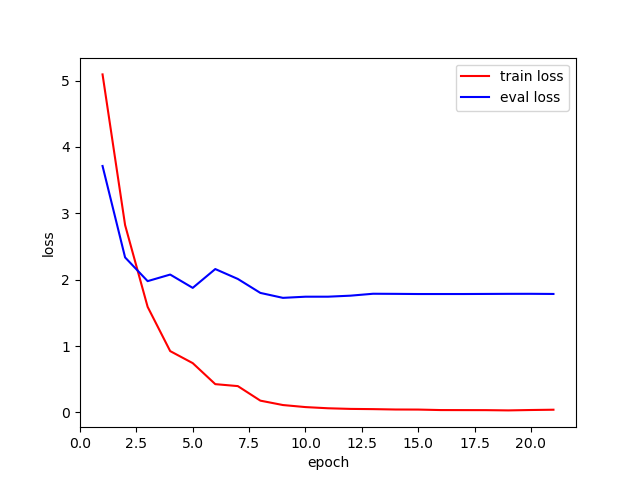
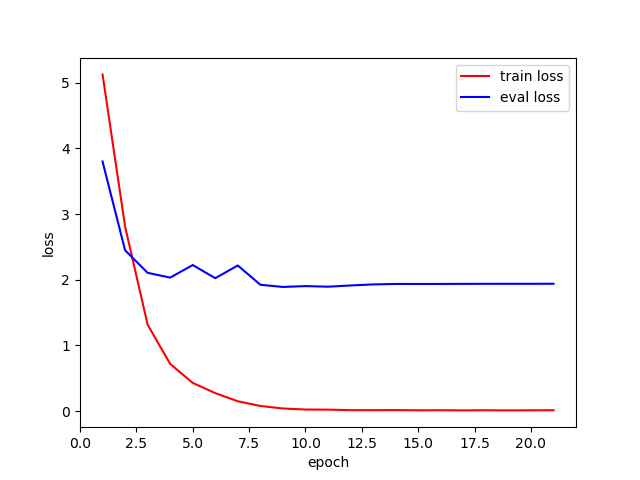
normalize

diff --git a/hw2.py b/hw2.py
@@ -52,11 +52,11 @@ data_transforms = {
             # transforms.ToTensor(),
             # transforms.Normalize((0.485, 0.456, 0.406), (0.229, 0.224, 0.225)),
 
-            transforms.RandomChoice([
-              transforms.RandomHorizontalFlip(p=0.5),
+            # transforms.RandomChoice([
+              # transforms.RandomHorizontalFlip(p=0.5),
               # transforms.RandomVerticalFlip(p=0.5),
-              transforms.RandomRotation(degrees=(0,30)),
-            ]),
+              # transforms.RandomRotation(degrees=(0,30)),
+            # ]),
             # transforms.CenterCrop((480,480)),
             transforms.Resize((224,224) ),
 
